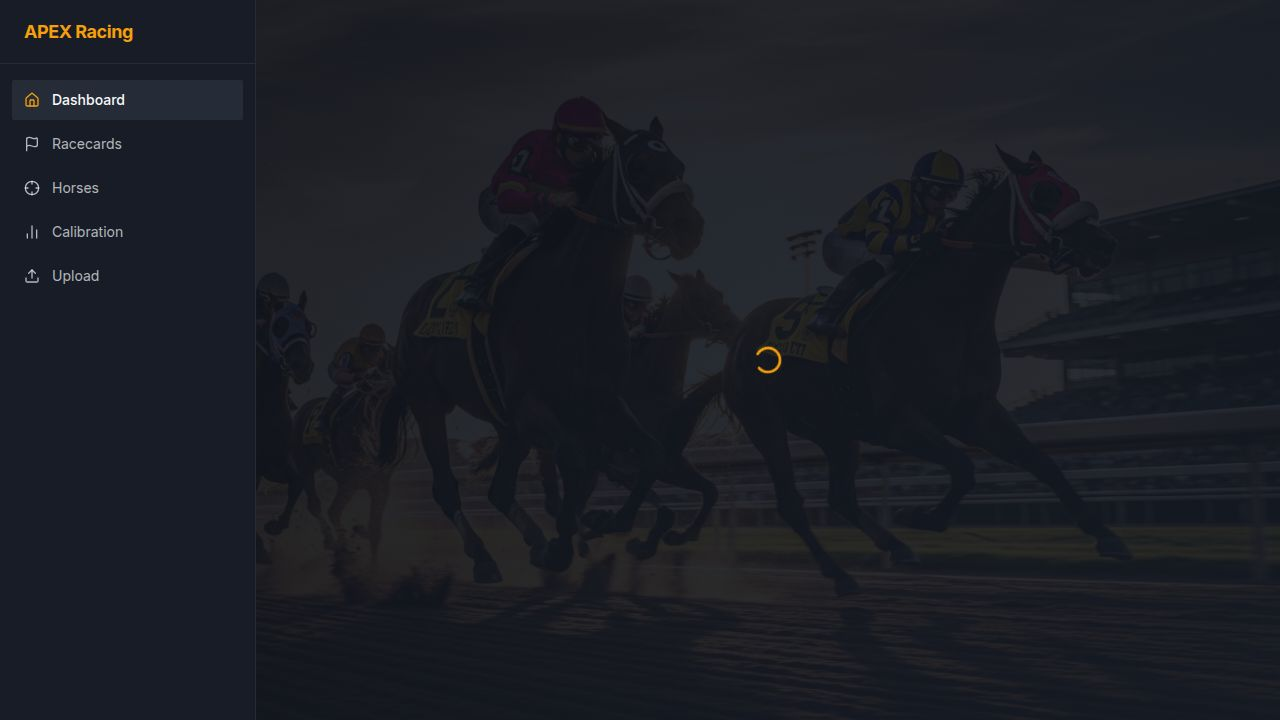
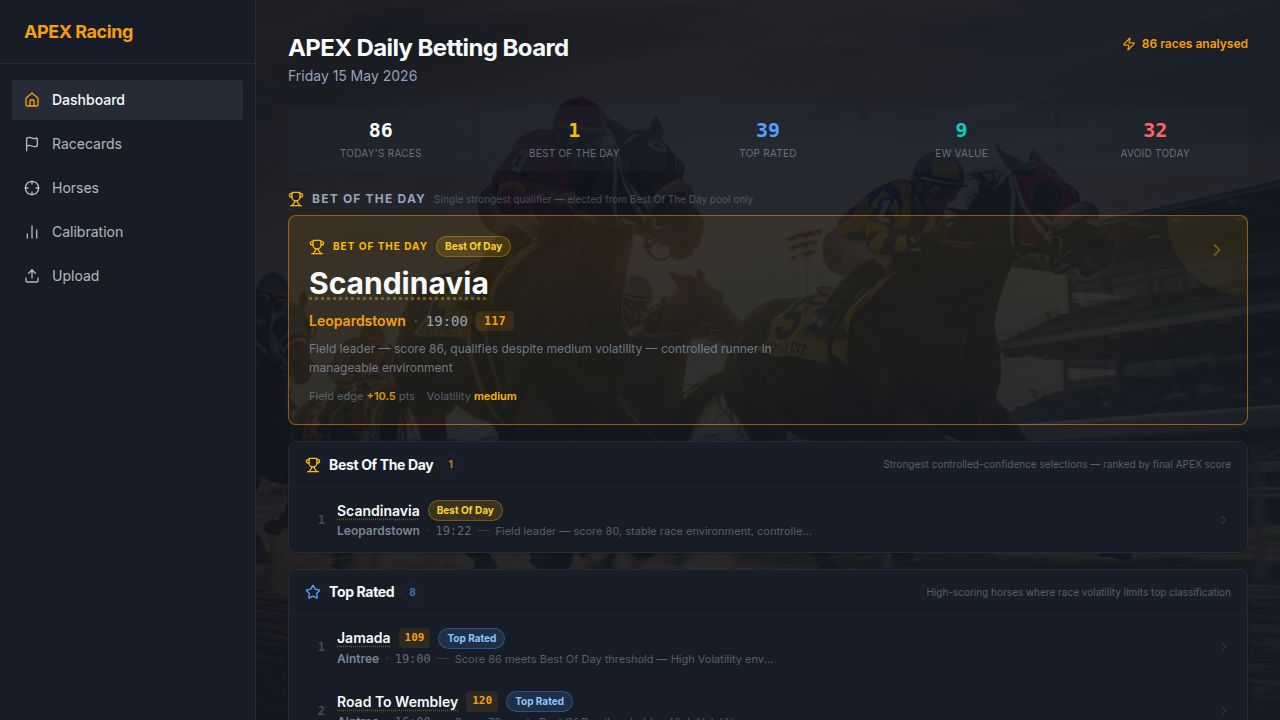
Correct race time displays and data synchronization across the platform
Refactor the dashboard to correctly associate race times with their corresponding racecards by fetching complete analysis data, and enhance the `normaliseTime` function in the upload route to accurately parse various spreadsheet time formats, ensuring consistency across all views.

Replit-Commit-Author: Agent
Replit-Commit-Session-Id: e5d96ca1-b192-42b8-ba68-acf7787d9762
Replit-Commit-Checkpoint-Type: full_checkpoint
Replit-Commit-Event-Id: 72872aec-5dc4-4930-b4fa-c914f78f3cbf
Replit-Commit-Screenshot-Url: https://storage.googleapis.com/screenshot-production-us-central1/22611d87-86f7-44a2-8bca-b564281c9914/e5d96ca1-b192-42b8-ba68-acf7787d9762/DZwTTp8
Replit-Helium-Checkpoint-Created: true

diff --git a/artifacts/api-server/src/routes/upload.ts b/artifacts/api-server/src/routes/upload.ts
@@ -1,5 +1,5 @@
 import { Router, type IRouter } from "express";
-import { eq, and, desc } from "drizzle-orm";
+import { eq, and, desc, inArray } from "drizzle-orm";
 import { db, racecardsTable, runnersTable } from "@workspace/db";
 import { UploadRacesBody, UploadResultsBody } from "@workspace/api-zod";
 
@@ -60,16 +60,62 @@ function isNonRunnerFormat(rows: Record<string, unknown>[]): boolean {
   return hasHorse && hasVenue && hasTime && !hasDate;
 }
 
-/** Normalise a time string.
- *  - HH:MM:SS → HH:MM  (strip seconds — 3-part)
- *  - HH:MM    → HH:MM  (already correct)
- *  - HH       → HH:00  (bare hour — pad minutes)
+/** Normalise a time string to HH:MM (24-hour, zero-padded).
+ *
+ * Handles the full range of formats that appear when spreadsheets
+ * are exported from Excel, Google Sheets, or typed manually:
+ *
+ *   "19:22"          → "19:22"   (24h HH:MM — passthrough)
+ *   "19:22:30"       → "19:22"   (24h HH:MM:SS — strip seconds)
+ *   "7:22 PM"        → "19:22"   (12h with minutes)
+ *   "7 PM"           → "19:00"   (12h bare hour)
+ *   "7:22:30 PM"     → "19:22"   (12h with seconds)
+ *   0.80694...       → "19:22"   (Excel serial fraction of a day)
+ *   "19"             → "19:00"   (bare integer hour)
  */
-function normaliseTime(t: string): string {
-  const parts = t.trim().split(":");
-  if (parts.length >= 3) return `${parts[0]}:${parts[1]}`;
-  if (parts.length === 2) return t.trim();
-  return `${t.trim()}:00`;
+function normaliseTime(raw: string): string {
+  const s = raw.trim();
+  if (!s) return "";
+
+  // ── 12-hour format (optional minutes, optional seconds, required AM/PM) ──
+  const h12 = s.match(/^(\d{1,2})(?::(\d{2}))?(?::\d{2})?\s*(AM|PM)$/i);
+  if (h12) {
+    let h = parseInt(h12[1], 10);
+    const m = h12[2] ?? "00";
+    const period = h12[3].toUpperCase();
+    if (period === "AM" && h === 12) h = 0;
+    if (period === "PM" && h !== 12) h += 12;
+    return `${String(h).padStart(2, "0")}:${m}`;
+  }
+
+  // ── Excel time serial (decimal fraction of a full day, 0 < x < 1) ────────
+  // e.g. 19:22 = (19*60 + 22) / (24*60) ≈ 0.80694
+  const decimal = parseFloat(s);
+  if (!isNaN(decimal) && !s.includes(":") && decimal > 0 && decimal < 1) {
+    const totalMins = Math.round(decimal * 24 * 60);
+    const h = Math.floor(totalMins / 60);
+    const m = totalMins % 60;
+    return `${String(h).padStart(2, "0")}:${String(m).padStart(2, "0")}`;
+  }
+
+  // ── Colon-separated (24h with optional seconds) ───────────────────────────
+  const parts = s.split(":");
+  if (parts.length >= 3) {
+    // HH:MM:SS → HH:MM
+    return `${parts[0].padStart(2, "0")}:${parts[1]}`;
+  }
+  if (parts.length === 2) {
+    // HH:MM → HH:MM (zero-pad the hour)
+    return `${parts[0].padStart(2, "0")}:${parts[1]}`;
+  }
+
+  // ── Bare integer hour ─────────────────────────────────────────────────────
+  if (/^\d{1,2}$/.test(s)) {
+    return `${s.padStart(2, "0")}:00`;
+  }
+
+  // ── Unrecognised — return trimmed as-is so callers can log it ────────────
+  return s;
 }
 
 // ── POST /upload/races ────────────────────────────────────────────────────────
@@ -210,8 +256,8 @@ router.post("/upload/races", async (req, res): Promise<void> => {
         let racecardId: number;
 
         if (date) {
-          // Full data — upsert by date+venue+time
-          const existing = await db
+          // ── 1. Exact match: venue + date + time ──────────────────────────
+          const exactMatch = await db
             .select({ id: racecardsTable.id })
             .from(racecardsTable)
             .where(and(
@@ -221,17 +267,70 @@ router.post("/upload/races", async (req, res): Promise<void> => {
             ))
             .limit(1);
 
-          if (existing.length > 0) {
-            racecardId = existing[0].id;
-          } else {
-            const [inserted] = await db.insert(racecardsTable).values({
-              venue, raceDate: date, raceTime: time,
+          if (exactMatch.length > 0) {
+            racecardId = exactMatch[0].id;
+            // Refresh metadata so re-uploads propagate going/distance/name changes.
+            await db.update(racecardsTable).set({
               raceName, distance, going, raceClass,
-              prize:       prize       || undefined,
-              nonRunners:  nonRunners  || undefined,
-            }).returning();
-            racecardId = inserted.id;
-            racesInserted++;
+              ...(prize      ? { prize }      : {}),
+              ...(nonRunners ? { nonRunners } : {}),
+            }).where(eq(racecardsTable.id, racecardId));
+          } else {
+            // ── 2. Fuzzy match: same venue + date, any time ───────────────
+            // If a horse from this group already exists in another racecard
+            // at the same venue/date, the race time has been corrected in the
+            // source data.  Update the existing racecard's time rather than
+            // creating a duplicate.
+            const horseNames = entry.rows
+              .map(r => col(r, "horse_name"))
+              .filter(Boolean);
+
+            let fuzzyId: number | null = null;
+            if (horseNames.length > 0) {
+              const sameDayRacecards = await db
+                .select({ id: racecardsTable.id })
+                .from(racecardsTable)
+                .where(and(
+                  eq(racecardsTable.raceDate, date),
+                  eq(racecardsTable.venue, venue),
+                ));
+
+              for (const candidate of sameDayRacecards) {
+                const overlap = await db
+                  .select({ id: runnersTable.id })
+                  .from(runnersTable)
+                  .where(and(
+                    eq(runnersTable.racecardId, candidate.id),
+                    inArray(runnersTable.horseName, horseNames),
+                  ))
+                  .limit(1);
+
+                if (overlap.length > 0) {
+                  fuzzyId = candidate.id;
+                  break;
+                }
+              }
+            }
+
+            if (fuzzyId !== null) {
+              // Same race, corrected time — update the existing racecard.
+              racecardId = fuzzyId;
+              await db.update(racecardsTable).set({
+                raceTime: time, raceName, distance, going, raceClass,
+                ...(prize      ? { prize }      : {}),
+                ...(nonRunners ? { nonRunners } : {}),
+              }).where(eq(racecardsTable.id, racecardId));
+            } else {
+              // ── 3. Genuinely new race ───────────────────────────────────
+              const [inserted] = await db.insert(racecardsTable).values({
+                venue, raceDate: date, raceTime: time,
+                raceName, distance, going, raceClass,
+                prize:      prize      || undefined,
+                nonRunners: nonRunners || undefined,
+              }).returning();
+              racecardId = inserted.id;
+              racesInserted++;
+            }
           }
         } else {
           // No date — find matching racecard by venue+time
@@ -258,29 +357,52 @@ router.post("/upload/races", async (req, res): Promise<void> => {
       }
     }
 
-    // Insert runners
+    // Upsert runners — update existing rows rather than inserting duplicates.
     for (const [, entry] of raceMap) {
       if (!entry.racecardId) continue;
       for (const row of entry.rows) {
         const horseName = col(row, "horse_name");
         if (!horseName) continue;
         try {
-          await db.insert(runnersTable).values({
-            racecardId:  entry.racecardId,
-            horseName,
-            jockey:  col(row, "jockey")  || "",
-            trainer: col(row, "trainer") || "",
-            weight:  col(row, "weight")  || "",
-            draw:    col(row, "draw") ? parseInt(col(row, "draw"), 10) : undefined,
-            age:     col(row, "age")  || undefined,
-            form:    col(row, "form") || undefined,
-            odds:    col(row, "odds") || undefined,
-            isNonRunner: false,
-            scratched:   false,
-          });
-          runnersInserted++;
+          const [existing] = await db
+            .select({ id: runnersTable.id })
+            .from(runnersTable)
+            .where(and(
+              eq(runnersTable.racecardId, entry.racecardId),
+              eq(runnersTable.horseName, horseName),
+            ))
+            .limit(1);
+
+          if (existing) {
+            await db.update(runnersTable).set({
+              jockey:      col(row, "jockey")  || "",
+              trainer:     col(row, "trainer") || "",
+              weight:      col(row, "weight")  || "",
+              draw:        col(row, "draw") ? parseInt(col(row, "draw"), 10) : null,
+              age:         col(row, "age")  || null,
+              form:        col(row, "form") || null,
+              odds:        col(row, "odds") || null,
+              isNonRunner: false,
+              scratched:   false,
+            }).where(eq(runnersTable.id, existing.id));
+          } else {
+            await db.insert(runnersTable).values({
+              racecardId:  entry.racecardId,
+              horseName,
+              jockey:  col(row, "jockey")  || "",
+              trainer: col(row, "trainer") || "",
+              weight:  col(row, "weight")  || "",
+              draw:    col(row, "draw") ? parseInt(col(row, "draw"), 10) : undefined,
+              age:     col(row, "age")  || undefined,
+              form:    col(row, "form") || undefined,
+              odds:    col(row, "odds") || undefined,
+              isNonRunner: false,
+              scratched:   false,
+            });
+            runnersInserted++;
+          }
         } catch (err) {
-          errors.push(`Failed to insert runner ${horseName}: ${String(err)}`);
+          errors.push(`Failed to upsert runner ${horseName}: ${String(err)}`);
         }
       }
     }

diff --git a/artifacts/apex-racing/src/pages/Dashboard.tsx b/artifacts/apex-racing/src/pages/Dashboard.tsx
@@ -92,6 +92,14 @@ type RacecardRow = {
   trainerComments?: string | null; nonRunners?: string | null;
 };
 
+// The /api/racecards/:id/analysis endpoint returns both racecard and runners.
+// Typing both here ensures raceTime always comes from the same racecard object
+// as the runners — never from an index-paired list-endpoint response.
+type AnalysisData = {
+  racecard: RacecardRow;
+  runners:  RunnerRow[];
+};
+
 function buildRaceEntries(rc: RacecardRow, runners: RunnerRow[]): {
   bodCandidates: ScoredPick[];
   topRatedPicks: ScoredPick[];
@@ -367,7 +375,9 @@ export default function Dashboard() {
       queryFn: async () => {
         const res = await fetch(`/api/racecards/${r.id}/analysis`);
         if (!res.ok) throw new Error("failed");
-        return res.json() as Promise<{ runners: RunnerRow[] }>;
+        // Include full racecard so raceTime always comes from the same object
+        // as the runners — no index-based pairing required.
+        return res.json() as Promise<AnalysisData>;
       },
       staleTime: 60_000,
       enabled: (todayRacecards?.length ?? 0) > 0,
@@ -389,9 +399,11 @@ export default function Dashboard() {
     const allEachWay:       ScoredPick[] = [];
     const allAvoid:         AvoidEntry[] = [];
 
-    analysisQueries.forEach((q, i) => {
-      const rc = todayRacecards[i];
-      if (!q.data || !rc) return;
+    analysisQueries.forEach((q) => {
+      // Use the racecard bundled with the analysis response — this guarantees
+      // raceTime and all metadata come from the exact same racecard as its runners.
+      if (!q.data?.racecard) return;
+      const rc = q.data.racecard;
       const { bodCandidates, topRatedPicks, eachWayPicks, avoid }
         = buildRaceEntries(rc, q.data.runners);
 
